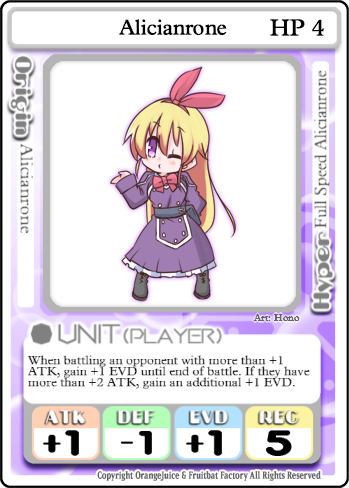
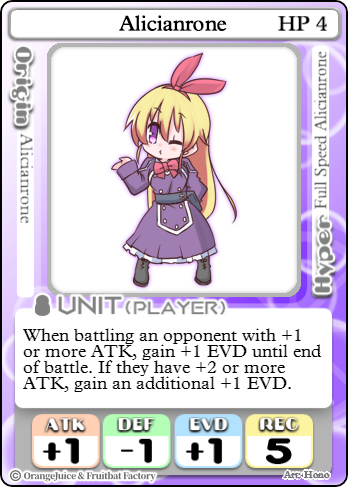
a

diff --git a/bots/modules/hyaku_percent_orange_juice.py b/bots/modules/hyaku_percent_orange_juice.py
@@ -3316,7 +3316,7 @@ RELATIONS = {
     'Sumika_(unit).png': 'https://cdn.discordapp.com/attachments/568837922288173058/901029484608778270/Sumika_unit.png',
     'Ellie_(unit).png': 'https://cdn.discordapp.com/attachments/568837922288173058/901029489163784232/Ellie_unit.png',
     'Lulu_(unit).png': 'https://cdn.discordapp.com/attachments/568837922288173058/901029494654132244/Lulu_unit.png',
-    'Alicianrone_(unit).png': 'https://cdn.discordapp.com/attachments/568837922288173058/901029499364327445/Alicianrone_unit.png',
+    'Alicianrone_(unit).png': 'https://cdn.discordapp.com/attachments/568837922288173058/901547493467250738/Alicianrone_unit.png',
     'Teotoratta_(unit).png': 'https://cdn.discordapp.com/attachments/568837922288173058/901029504003244042/Teotoratta_unit.png',
     'Arnelle_(unit).png': 'https://cdn.discordapp.com/attachments/568837922288173058/901029508138823700/Arnelle_unit.png',
     'Maynie_(unit).png': 'https://cdn.discordapp.com/attachments/568837922288173058/901029512618344458/Maynie_unit.png',
